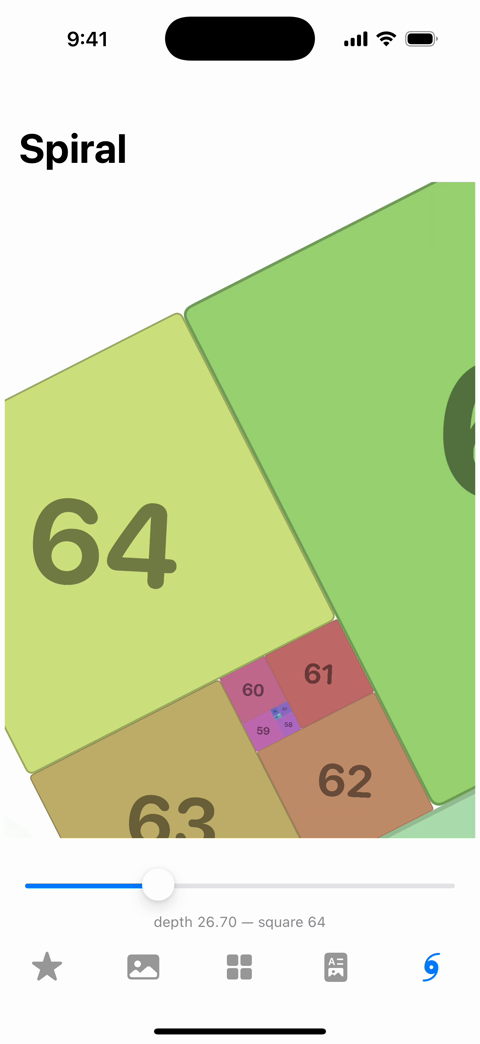
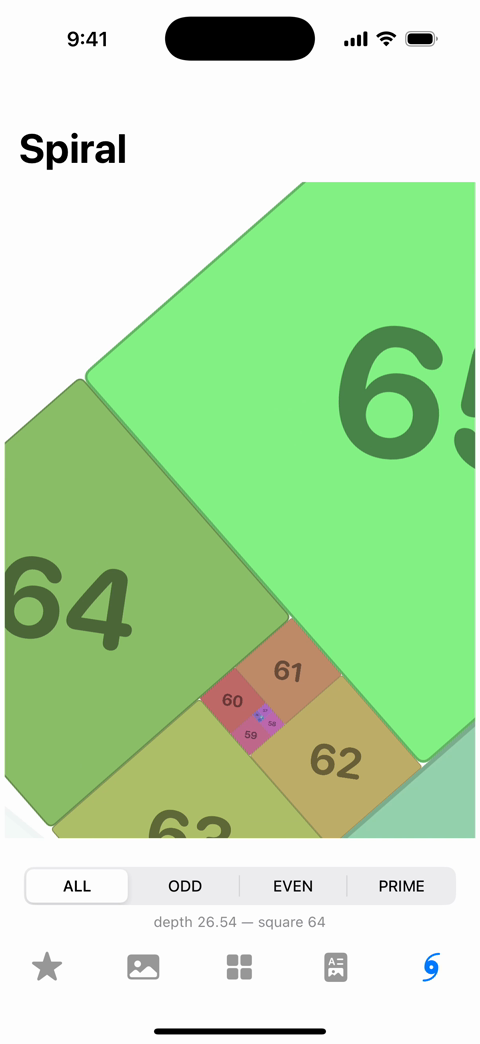
feat(demo): number filters replace the slider, longer inertia
- ALL / ODD / EVEN / PRIME segments in the slider old seat: the same
  numbers re-dialed through a spiral laid out for exactly that count -
  layout and trail re-SOLVED per count (the grego facet lesson as a
  demo). The number is the tile CONTENT; its geometry comes from its
  filtered position. Hue keys to the number, so 46 keeps its colour in
  every filter. Switching kills any coast and re-clamps depth.
- Inertia decay 0.94 to 0.97: with up to ninety-one squares the ride is
  the demo.
- GG_FILTER joins the screenshot hooks; readme gif re-recorded with the
  segments visible.

diff --git a/Examples/iOS/Sources/SpiralView.swift b/Examples/iOS/Sources/SpiralView.swift
@@ -1,33 +1,83 @@
 import SwiftUI
 import GoldenGrids
 
-/// Spiral dial — the depth camera over a NINETY-ONE-square layout, the
-/// SwiftUI analogue of the production dial. Scroll the stage (drag, with
-/// inertia) or use the slider — both drive the same depth, so the readout
-/// and slider track whichever input is moving. Each square fades through
-/// `spiralWindow` and every tile carries its own camera-composed transform.
+/// Spiral dial — the depth camera over up to NINETY-ONE squares, the SwiftUI
+/// analogue of the production dial. Scroll the stage (drag, with inertia);
+/// the segmented filter re-dials the SAME numbers through a smaller spiral —
+/// ALL is the untouched 1–91, ODD/EVEN/PRIME keep only matching numbers.
+/// Each square fades through `spiralWindow` and every tile carries its own
+/// camera-composed transform.
 ///
 /// Ninety-one is the integer ceiling, not a taste choice: the 92-square
 /// layout's bounding box is F(93) ≈ 1.22 × 10¹⁹, past Int64.max — and the
 /// web port walls even earlier, at 78 (Number.MAX_SAFE_INTEGER). Going to a
 /// true 100 needs a float-coordinate layout in the library.
+///
+/// The filters are the grego facet lesson as a demo: the spiral is
+/// count-driven, so a filtered set is the SAME machine over fewer squares —
+/// layout and trail re-SOLVED per count, never reused across counts.
 struct SpiralView: View {
-    private static let count = 91
-    private static let fib: [Int] = {
-        var seq = [1, 1]
-        while seq.count < count { seq.append(seq[seq.count - 1] + seq[seq.count - 2]) }
-        return seq
+    private static let fullCount = 91
+
+    /// Which numbers ride the dial. The number is the tile's CONTENT — its
+    /// geometry comes from its position in the filtered layout.
+    enum NumberFilter: String, CaseIterable, Identifiable {
+        case all = "ALL"
+        case odd = "ODD"
+        case even = "EVEN"
+        case prime = "PRIME"
+        var id: String { rawValue }
+
+        var numbers: [Int] {
+            switch self {
+            case .all: return Array(1...SpiralView.fullCount)
+            case .odd: return Array(1...SpiralView.fullCount).filter { $0 % 2 == 1 }
+            case .even: return Array(1...SpiralView.fullCount).filter { $0 % 2 == 0 }
+            case .prime: return Array(1...SpiralView.fullCount).filter(SpiralView.isPrime)
+            }
+        }
+    }
+
+    private static func isPrime(_ n: Int) -> Bool {
+        if n < 2 { return false }
+        if n < 4 { return true }
+        if n % 2 == 0 { return false }
+        var d = 3
+        while d * d <= n {
+            if n % d == 0 { return false }
+            d += 2
+        }
+        return true
+    }
+
+    /// One dial per filter: its numbers, and a spiral laid out for exactly
+    /// that count — fib run and trail rotation both re-solved, because the
+    /// trail direction cycles with the square count.
+    struct Dial {
+        let numbers: [Int]
+        let layout: GoldenGrids.GridLayout
+        var count: Int { numbers.count }
+    }
+
+    private static let dials: [NumberFilter: Dial] = {
+        var out: [NumberFilter: Dial] = [:]
+        for filter in NumberFilter.allCases {
+            let numbers = filter.numbers
+            var fib = [1, 1]
+            while fib.count < numbers.count { fib.append(fib[fib.count - 1] + fib[fib.count - 2]) }
+            out[filter] = Dial(
+                numbers: numbers,
+                layout: generateGoldenGridLayout(
+                    fib,
+                    clockwise: true,
+                    rotate: trailToRotateDeg(.bottom, clockwise: true, squareCount: numbers.count)
+                )
+            )
+        }
+        return out
     }()
 
-    /// Trailing side is solved per count, not hardcoded — the direction the
-    /// composition grows into cycles with the square count (see
-    /// `trailToRotateDeg`). Down suits a portrait phone stage.
-    private static let layout = generateGoldenGridLayout(
-        fib,
-        clockwise: true,
-        rotate: trailToRotateDeg(.bottom, clockwise: true, squareCount: count)
-    )
-
+    @State private var filter: NumberFilter = SpiralView.initialFilter()
     @State private var depth: Double = SpiralView.initialDepth()
     @State private var dragStartDepth: Double?
     /// Last two drag samples, for a live-flick velocity (depth/second) —
@@ -37,7 +87,8 @@ struct SpiralView: View {
     @State private var flickVelocity: Double = 0
     @State private var coastTask: Task<Void, Never>?
 
-    private static let maxDepth = Double(count - 1)
+    private var dial: Dial { Self.dials[filter]! }
+    private var maxDepth: Double { Double(dial.count - 1) }
 
     /// Screenshot hooks, like GG_TAB in App.swift: GG_DEPTH starts the dial
     /// at a depth, GG_AUTOSPIN dials from there at N squares/second — both
@@ -45,7 +96,14 @@ struct SpiralView: View {
     private static func initialDepth() -> Double {
         guard let raw = ProcessInfo.processInfo.environment["GG_DEPTH"],
               let value = Double(raw) else { return 0 }
-        return min(max(value, 0), maxDepth)
+        return min(max(value, 0), Double(fullCount - 1))
+    }
+
+    /// GG_FILTER selects a segment at launch (all/odd/even/prime) — the same
+    /// deterministic-recording family as GG_TAB/GG_DEPTH/GG_AUTOSPIN.
+    private static func initialFilter() -> NumberFilter {
+        guard let raw = ProcessInfo.processInfo.environment["GG_FILTER"] else { return .all }
+        return NumberFilter(rawValue: raw.uppercased()) ?? .all
     }
 
     private static func autospinRate() -> Double? {
@@ -71,7 +129,7 @@ struct SpiralView: View {
                             let start = dragStartDepth ?? depth
                             dragStartDepth = start
                             // Drag DOWN to dial deeper, one square per ~180pt.
-                            let next = min(max(start + Double(value.translation.height) / 180, 0), Self.maxDepth)
+                            let next = min(max(start + Double(value.translation.height) / 180, 0), maxDepth)
                             let now = Date()
                             if let sample = lastSample {
                                 let dt = now.timeIntervalSince(sample.time)
@@ -96,21 +154,22 @@ struct SpiralView: View {
                 )
 
                 VStack(spacing: 8) {
-                    // The slider and the readout are bound to the SAME depth
-                    // the drag writes, so they track a scroll (and its coast)
-                    // exactly; moving the slider grabs the dial and stops any
-                    // coast in flight.
-                    Slider(
-                        value: Binding(
-                            get: { depth },
-                            set: { newValue in
-                                coastTask?.cancel()
-                                depth = newValue
-                            }
-                        ),
-                        in: 0...Self.maxDepth
-                    )
-                    Text("depth \(depth, specifier: "%.2f") — square \(Self.count - Int(depth.rounded()))")
+                    // Quick filters in the slider's old seat: the same
+                    // numbers re-dialed through a smaller spiral. Switching
+                    // grabs the dial (kills any coast) and re-clamps depth
+                    // into the new, shorter track.
+                    Picker("Filter", selection: $filter) {
+                        ForEach(NumberFilter.allCases) { option in
+                            Text(option.rawValue).tag(option)
+                        }
+                    }
+                    .pickerStyle(.segmented)
+                    // The two-parameter onChange still deploys below iOS 17.
+                    .onChange(of: filter) { _ in
+                        coastTask?.cancel()
+                        depth = min(depth, maxDepth)
+                    }
+                    Text("depth \(depth, specifier: "%.2f") — square \(dial.numbers[dial.count - 1 - Int(depth.rounded())])")
                         .font(.caption.monospacedDigit())
                         .foregroundStyle(.secondary)
                 }
@@ -122,17 +181,18 @@ struct SpiralView: View {
             .onDisappear { coastTask?.cancel() }
             .task {
                 guard let rate = Self.autospinRate() else { return }
+                _ = dial
                 // Advance by measured elapsed time, not per-wakeup: sleeps
                 // are nominal (and drift under load), and the recording hook
                 // promises N squares per wall-clock second.
                 var last = ContinuousClock.now
-                while !Task.isCancelled && depth < Self.maxDepth {
+                while !Task.isCancelled && depth < maxDepth {
                     try? await Task.sleep(nanoseconds: 16_000_000)
                     let now = ContinuousClock.now
                     let elapsed = Double((now - last).components.attoseconds) / 1e18
                         + Double((now - last).components.seconds)
                     last = now
-                    depth = min(depth + rate * elapsed, Self.maxDepth)
+                    depth = min(depth + rate * elapsed, maxDepth)
                 }
             }
         }
@@ -152,12 +212,14 @@ struct SpiralView: View {
             while !Task.isCancelled && abs(v) > 0.01 {
                 try? await Task.sleep(nanoseconds: 16_000_000) // ~60 fps
                 if Task.isCancelled { return }
-                let next = min(max(depth + v / 60, 0), Self.maxDepth)
+                let next = min(max(depth + v / 60, 0), maxDepth)
                 depth = next
                 // Hitting either end kills the coast rather than pinning
                 // against the bound at full speed.
-                if next == 0 || next == Self.maxDepth { return }
-                v *= 0.94
+                if next == 0 || next == maxDepth { return }
+                // Longer coast than the production dial's 0.94: with up to
+                // ninety-one squares the ride IS the demo.
+                v *= 0.97
             }
         }
     }
@@ -179,8 +241,8 @@ struct SpiralView: View {
 
     private func stageContent(in size: CGSize) -> some View {
         let frame = spiralCamera(
-            Self.layout,
-            depth: depth,
+            dial.layout,
+            depth: min(depth, maxDepth),
             viewportWidth: Double(size.width),
             viewportHeight: Double(size.height),
             // A larger fill than the 1/φ default: the dial is the whole
@@ -193,15 +255,15 @@ struct SpiralView: View {
         // precisely for this. Each tile renders into a texturePx box at a net
         // scale near 1, so every era paints at native resolution.
         return ZStack(alignment: .topLeading) {
-            ForEach(Self.layout.squares.indices, id: \.self) { index in
-                let square = Self.layout.squares[index]
-                let window = spiralWindow(index, depth: depth, squareCount: Self.count)
+            ForEach(dial.layout.squares.indices, id: \.self) { index in
+                let square = dial.layout.squares[index]
+                let window = spiralWindow(index, depth: min(depth, maxDepth), squareCount: dial.count)
                 let tileScale = frame.scale * Double(square.size) / Self.texturePx
                 // With ninety-one squares most of the interior is sub-pixel
                 // at any depth — skip tiles that would paint under half a
                 // pixel rather than composite ninety-one views per frame.
                 if !window.hidden && tileScale * Self.texturePx >= 0.5 {
-                    tile(index: index, focused: window.focused, frame: frame)
+                    tile(number: dial.numbers[index], focused: window.focused, frame: frame)
                         .opacity(window.opacity)
                         .transformEffect(
                             toAffineTileTransform(
@@ -218,8 +280,10 @@ struct SpiralView: View {
         .animation(.linear(duration: 0.05), value: depth)
     }
 
-    private func tile(index: Int, focused: Bool, frame: SpiralCameraFrame) -> some View {
-        let hue = Double(index).truncatingRemainder(dividingBy: 15) / 15
+    private func tile(number: Int, focused: Bool, frame: SpiralCameraFrame) -> some View {
+        // Hue keyed to the NUMBER, not the position: 46 keeps its colour in
+        // every filter it appears in.
+        let hue = Double(number).truncatingRemainder(dividingBy: 15) / 15
         let t = Self.texturePx
         // Orientation-lock the label: counter-rotate the content against the
         // dial (about its own centre, the SwiftUI default) so it orbits with
@@ -233,7 +297,7 @@ struct SpiralView: View {
                     .strokeBorder(.black.opacity(0.25), lineWidth: t * 0.005)
             )
             .overlay(
-                Text("\(index + 1)")
+                Text("\(number)")
                     .font(.system(size: t * 0.25, weight: .bold, design: .rounded))
                     .foregroundStyle(.black.opacity(0.45))
                     .rotationEffect(.degrees(content.rotationDeg))

diff --git a/Examples/iOS/README.md b/Examples/iOS/README.md
@@ -71,8 +71,11 @@ trail solved for a portrait stage (`trailToRotateDeg`). Every tile carries its
 own `toAffineTileTransform` (never one matrix on a shared stage — that
 rasterizes the deep squares and upscales the mush), labels stay upright via
 `contentTransform`, `spiralWindow` fades only the outward squares, and depth
-is driven by a drag with flick inertia or the slider — both bound to the same
-value, so the readout tracks either:
+is driven by a drag with long flick inertia (0.97/frame decay — the ride is
+the demo). In the slider's old seat: segmented NUMBER FILTERS — ALL (1–91),
+ODD, EVEN, PRIME — each re-dialing the same numbers through a spiral laid out
+for exactly that count (layout and trail re-solved per count; the number is
+the tile's content, its geometry comes from its filtered position):
 
 ```swift
 let frame = spiralCamera(layout, depth: depth, viewportWidth: w, viewportHeight: h,
@@ -81,6 +84,7 @@ tileView.transformEffect(toAffineTileTransform(frame, square: square,
                                                viewportWidth: w, viewportHeight: h))
 ```
 
-Screenshot hooks for this screen: `SIMCTL_CHILD_GG_DEPTH` starts the dial at a
-depth, `SIMCTL_CHILD_GG_AUTOSPIN` dials at N squares/second (how the README
-gif is recorded).
+Screenshot hooks for this screen: `SIMCTL_CHILD_GG_DEPTH` starts the dial at
+a depth, `SIMCTL_CHILD_GG_FILTER` selects a segment (all/odd/even/prime), and
+`SIMCTL_CHILD_GG_AUTOSPIN` dials at N squares/second (how the README gif is
+recorded).

diff --git a/README.md b/README.md
@@ -242,7 +242,7 @@ A runnable example app lives in [`Examples/iOS`](Examples/iOS) — five screens:
   <img src="https://raw.githubusercontent.com/gregoryedgerton/golden-grids/main/docs/ios/galleries.gif" width="200" alt="Galleries — sky gradients with sun and moon" />
   <img src="https://raw.githubusercontent.com/gregoryedgerton/golden-grids/main/docs/ios/dashboards.gif" width="200" alt="Dashboards — a bento of stats" />
   <img src="https://raw.githubusercontent.com/gregoryedgerton/golden-grids/main/docs/ios/editorial.gif" width="200" alt="Editorial — a line-less copy grid" />
-  <img src="https://raw.githubusercontent.com/gregoryedgerton/golden-grids/main/docs/ios/spiral.gif" width="200" alt="Spiral — dialing through ninety-one squares with inertia" />
+  <img src="https://raw.githubusercontent.com/gregoryedgerton/golden-grids/main/docs/ios/spiral.gif" width="200" alt="Spiral — dialing through ninety-one squares with inertia and number filters" />
 </p>
 
 ### Android (Jetpack Compose)
